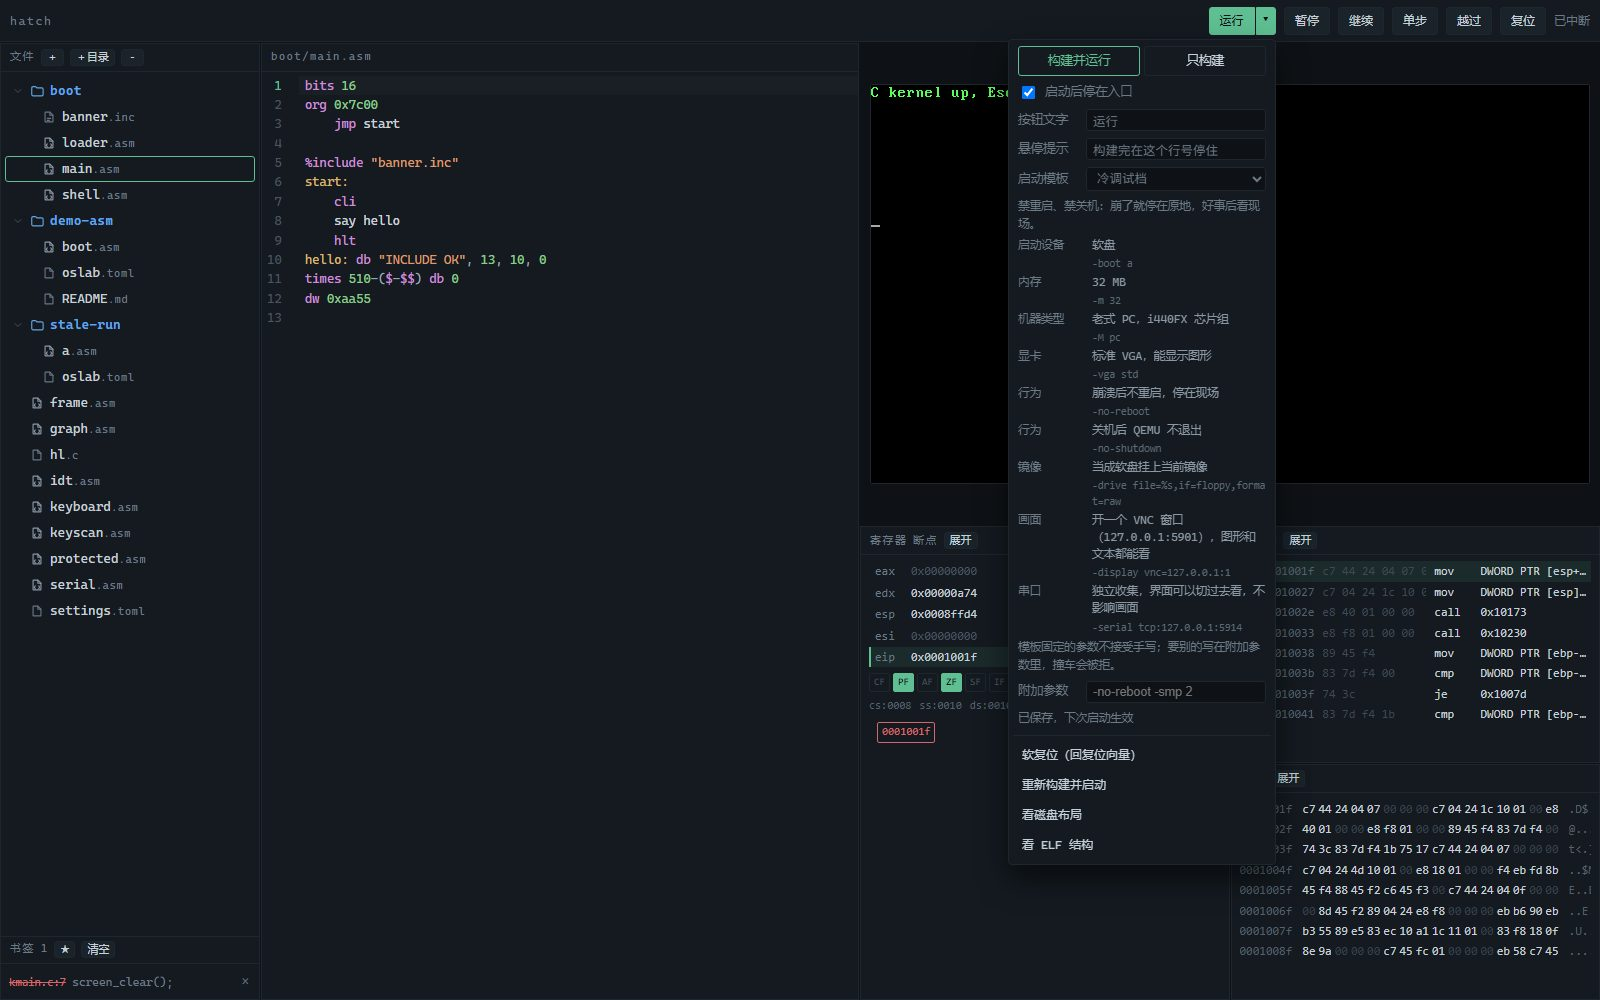
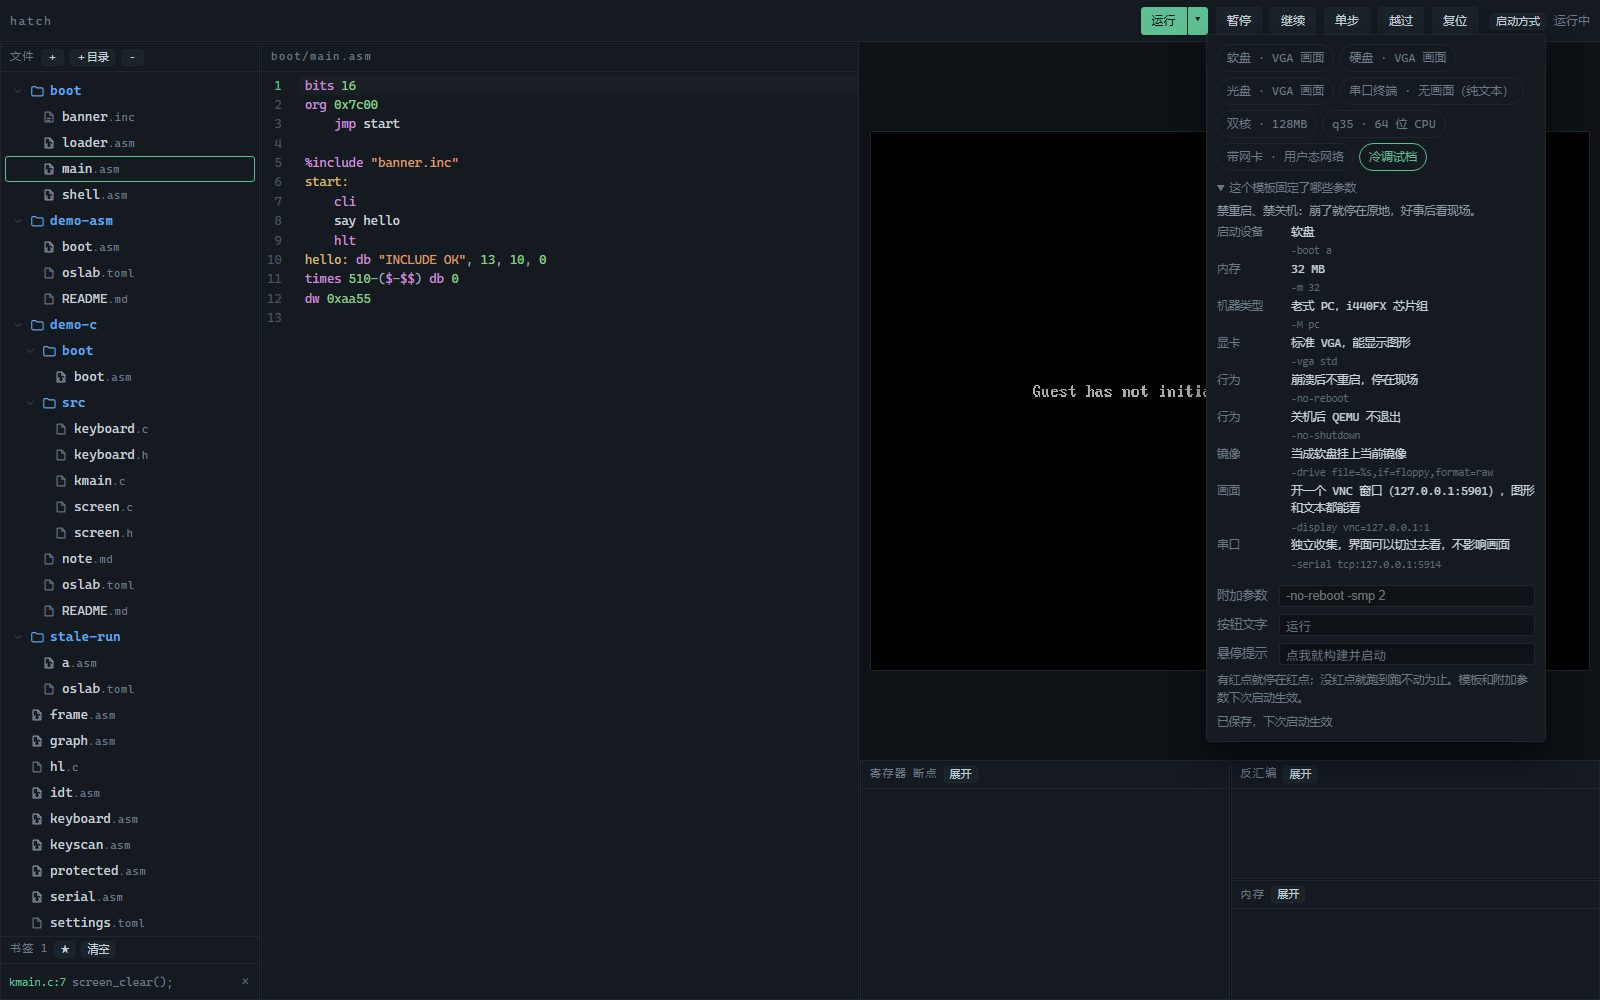
主按钮只管跑，长期设置挪进「启动方式」
▾ 里只剩一次性动作：只构建、软复位、重新构建并启动、看磁盘布局、看 ELF，
四五行，不再被参数表撑满。按住 Shift 点主按钮就是只构建（▾ 末尾也写了）。

新开一个「启动方式」小浮层（齿轮样式按钮）：模板排成 chip 点一下就用，
参数表折叠在「这个模板固定了哪些参数」后面，下面是附加参数、按钮文字、
悬停提示。改哪项当场存，模板和附加参数下次启动生效。

入口暂停不再是个开关：有红点就停在红点，没红点就跑到跑不动为止。顺带修了
我上一版把条件写反的问题——pause_at_entry 为真时其实是「放行到红点」，
结果只要没有红点就停在复位向量，串口一个字都收不到。现在按上面这条走，
pause_at_entry = false 才真的停在复位向量（手改有效，界面不再出现）。

README 的对应章节和截图跟着换。

单测 96 条、端到端 67/67；浏览器实测 Shift 只构建、普通点会跑、
点浮层里不关点页面才关。

diff --git a/src/oslab/assets/ui/js/settings.js b/src/oslab/assets/ui/js/settings.js
@@ -1,9 +1,9 @@
 import * as api from "./api.js";
 import * as panels from "./panels.js";
 
-// 启动方式的全部字段就挂在运行按钮底下那一层，改哪项当场存哪项
+// 按钮只负责跑；长期设置收在「启动方式」那个小浮层里
 const runBtn = document.getElementById("run");
-const menu = document.getElementById("run-menu");
+const box = document.getElementById("run-set");
 const note = document.getElementById("run-note");
 
 const DEFAULTS = {
@@ -20,36 +20,30 @@ export function esc(text) {
 }
 
 export function applyRunButton() {
-  runBtn.textContent = data.run.label || (data.run.action === "build" ? "构建" : "运行");
+  runBtn.textContent = data.run.label || "运行";
   runBtn.title = data.run.hint || "";
 }
 
 function paintFacts() {
-  const box = document.getElementById("run-facts");
+  const wrap = document.getElementById("run-facts-wrap");
   const found = profiles.find((item) => item.id === data.qemu.profile);
   if (!found) {
-    box.innerHTML = "";
+    wrap.hidden = true;
     return;
   }
-  box.innerHTML = `<div class="dim">${esc(found.desc)}</div>`
+  wrap.hidden = false;
+  document.getElementById("run-facts").innerHTML = `${esc(found.desc)}`
     + `<table class="facts-list">${(found.rows || []).map((row) =>
       `<tr><th>${esc(row.k)}</th><td>${esc(row.v)}<code>${esc(row.arg)}</code></td></tr>`)
-      .join("")}</table>`
-    + `<div class="dim">模板固定的参数不接受手写；要别的写在附加参数里，撞车会被拒。</div>`;
+      .join("")}</table>`;
 }
 
-// 浮层每次打开都按当前值重画一遍
 export function paint() {
-  for (const button of document.querySelectorAll("#run-action button")) {
-    button.classList.toggle("on", button.dataset.do === data.run.action);
-  }
-  document.getElementById("run-pause").checked = data.run.pause_at_entry;
+  document.getElementById("run-chips").innerHTML = profiles.map((item) =>
+    `<button type="button" class="chip${item.id === data.qemu.profile ? " on" : ""}"`
+    + ` data-profile="${esc(item.id)}">${esc(item.name)}</button>`).join("");
   document.getElementById("run-label").value = data.run.label;
   document.getElementById("run-hint").value = data.run.hint;
-  const pick = document.getElementById("run-profile");
-  pick.innerHTML = profiles.map((item) =>
-    `<option value="${esc(item.id)}">${esc(item.name)}</option>`).join("");
-  pick.value = data.qemu.profile;
   document.getElementById("run-extra").value = (data.qemu.extra || []).join(" ");
   paintFacts();
 }
@@ -83,10 +77,6 @@ async function put(patch) {
   return true;
 }
 
-export function setAction(action) {
-  return put({ run: { action } });
-}
-
 export async function load() {
   adopt(await api.settings());
   return data;
@@ -96,22 +86,35 @@ export function current() {
   return { ...data, profiles };
 }
 
+export function isOpen() {
+  return box.classList.contains("open");
+}
+
+export function toggle() {
+  if (isOpen()) {
+    box.classList.remove("open");
+    return;
+  }
+  paint();
+  box.classList.add("open");
+}
+
+export function close() {
+  box.classList.remove("open");
+}
+
 export function install() {
-  menu.addEventListener("click", (ev) => ev.stopPropagation());
-  document.getElementById("run-action").addEventListener("click", (ev) => {
-    const button = ev.target.closest("button[data-do]");
-    if (button) setAction(button.dataset.do);
+  box.addEventListener("click", (ev) => ev.stopPropagation());
+  document.getElementById("run-chips").addEventListener("click", async (ev) => {
+    const chip = ev.target.closest("button[data-profile]");
+    if (!chip) return;
+    const profile = chip.dataset.profile;
+    if (await put({ qemu: { profile } })) panels.serialMode(profile === "terminal");
   });
-  document.getElementById("run-pause").addEventListener("change", (ev) =>
-    put({ run: { pause_at_entry: ev.target.checked } }));
   for (const [id, key, max] of [["run-label", "label", 12], ["run-hint", "hint", 80]]) {
     document.getElementById(id).addEventListener("change", (ev) =>
       put({ run: { [key]: ev.target.value.trim().slice(0, max) } }));
   }
-  document.getElementById("run-profile").addEventListener("change", async (ev) => {
-    const profile = ev.target.value;
-    if (await put({ qemu: { profile } })) panels.serialMode(profile === "terminal");
-  });
   document.getElementById("run-extra").addEventListener("change", (ev) =>
     put({ qemu: { extra: ev.target.value.split(/\s+/).filter(Boolean) } }));
   load();

diff --git a/src/oslab/assets/ui/styles/detail.css b/src/oslab/assets/ui/styles/detail.css
@@ -189,28 +189,52 @@
   border: 0;
 }
 #run-menu button:hover { background: var(--edge); }
-#run-menu hr {
-  width: 100%;
-  margin: 4px 0;
-  border: 0;
-  border-top: 1px solid var(--edge);
-}
-#run-knobs { display: flex; flex-direction: column; gap: 7px; padding: 2px 5px 4px; }
-#run-knobs .dim { color: var(--dim); font-size: 11.5px; line-height: 1.5; }
-#run-knobs .seg { display: flex; gap: 4px; }
-#run-knobs .seg button {
-  flex: 1;
-  text-align: center;
-  padding: 5px 6px;
+#run-menu .dim.tight { padding: 5px 9px 3px; }
+#run-menu { min-width: 210px; }
+#set-group { position: relative; }
+#run-set {
+  position: absolute;
+  top: calc(100% + 4px);
+  right: 0;
+  z-index: 80;
+  display: none;
+  flex-direction: column;
+  gap: 7px;
+  width: 340px;
+  padding: 9px 10px 10px;
+  background: var(--panel);
   border: 1px solid var(--edge);
-  border-radius: 3px;
+  border-radius: 4px;
+  box-shadow: 0 14px 30px #0008;
   font-size: 12.5px;
 }
-#run-knobs .seg button.on { border-color: var(--accent); color: var(--accent); }
-#run-knobs .check { display: flex; align-items: center; gap: 7px; font-size: 12.5px; color: var(--dim); }
-#run-knobs .knob { display: grid; grid-template-columns: 62px 1fr; align-items: center; gap: 6px; font-size: 12.5px; color: var(--dim); }
-#run-knobs .knob input,
-#run-knobs .knob select {
+#run-set.open { display: flex; }
+#run-set .dim.tight { color: var(--dim); font-size: 11.5px; line-height: 1.5; }
+#run-chips { display: flex; flex-wrap: wrap; gap: 5px; }
+#run-chips .chip {
+  padding: 4px 9px;
+  font-size: 12px;
+  color: var(--dim);
+  background: transparent;
+  border: 1px solid var(--edge);
+  border-radius: 999px;
+  cursor: pointer;
+}
+#run-chips .chip:hover { border-color: var(--dim); color: inherit; }
+#run-chips .chip.on { border-color: var(--accent); color: var(--accent); }
+#run-facts-wrap summary {
+  cursor: pointer;
+  color: var(--dim);
+  font-size: 11.5px;
+  padding: 2px 0;
+}
+#run-facts { padding: 4px 0 2px; color: #8b98a3; font-size: 11.5px; line-height: 1.5; }
+#run-facts .facts-list { width: 100%; border-collapse: collapse; font-size: 11.5px; margin: 3px 0; }
+#run-facts .facts-list th { text-align: left; color: var(--dim); font-weight: 400; padding: 1px 6px 1px 0; white-space: nowrap; vertical-align: top; }
+#run-facts .facts-list td { padding: 1px 0; }
+#run-facts .facts-list code { display: block; color: #5c6a73; font-size: 10.5px; }
+#run-set .knob { display: grid; grid-template-columns: 56px 1fr; align-items: center; gap: 6px; color: var(--dim); }
+#run-set .knob input {
   width: 100%;
   padding: 3px 6px;
   font-size: 12.5px;
@@ -219,11 +243,6 @@
   border: 1px solid var(--edge);
   border-radius: 3px;
 }
-#run-facts:empty { display: none; }
-#run-facts .facts-list { width: 100%; border-collapse: collapse; font-size: 11.5px; margin: 3px 0; }
-#run-facts .facts-list th { text-align: left; color: var(--dim); font-weight: 400; padding: 1px 6px 1px 0; white-space: nowrap; vertical-align: top; }
-#run-facts .facts-list td { color: #8b98a3; padding: 1px 0; }
-#run-facts .facts-list code { display: block; color: #5c6a73; font-size: 10.5px; }
 #run-note { min-height: 15px; }
 #run-note.bad { color: #e5534b; }
 

diff --git a/src/oslab/assets/ui/index.html b/src/oslab/assets/ui/index.html
@@ -19,26 +19,14 @@
   <span class="title">hatch</span>
   <div id="run-group">
     <button id="run" class="primary">运行</button>
-    <button id="run-more" class="primary" title="更多启动方式">▾</button>
+    <button id="run-more" class="primary" title="更多动作">▾</button>
     <div id="run-menu">
-      <div id="run-knobs">
-        <div class="seg" id="run-action">
-          <button data-do="run" class="on">构建并运行</button>
-          <button data-do="build">只构建</button>
-        </div>
-        <label class="check"><input id="run-pause" type="checkbox" /><span>启动后停在入口</span></label>
-        <label class="knob"><span>按钮文字</span><input id="run-label" maxlength="12" /></label>
-        <label class="knob"><span>悬停提示</span><input id="run-hint" maxlength="80" /></label>
-        <label class="knob"><span>启动模板</span><select id="run-profile"></select></label>
-        <div id="run-facts"></div>
-        <label class="knob"><span>附加参数</span><input id="run-extra" placeholder="-no-reboot -smp 2" /></label>
-        <div id="run-note" class="dim"></div>
-      </div>
-      <hr>
+      <button data-act="build">只构建</button>
       <button data-act="reset">软复位（回复位向量）</button>
       <button data-act="reboot">重新构建并启动</button>
       <button data-act="disk">看磁盘布局</button>
       <button data-act="elf">看 ELF 结构</button>
+      <div class="dim tight">Shift + 点运行也是只构建</div>
     </div>
   </div>
   <button id="pause">暂停</button>
@@ -46,6 +34,20 @@
   <button id="step">单步</button>
   <button id="step-over">越过</button>
   <button id="reset">复位</button>
+  <div id="set-group">
+    <button id="gear" class="mini" title="启动方式">启动方式</button>
+    <div id="run-set">
+      <div class="chips" id="run-chips"></div>
+      <details id="run-facts-wrap"><summary>这个模板固定了哪些参数</summary>
+        <div id="run-facts"></div>
+      </details>
+      <label class="knob"><span>附加参数</span><input id="run-extra" placeholder="-no-reboot -smp 2" /></label>
+      <label class="knob"><span>按钮文字</span><input id="run-label" maxlength="12" /></label>
+      <label class="knob"><span>悬停提示</span><input id="run-hint" maxlength="80" /></label>
+      <div class="dim tight">有红点就停在红点；没红点就跑到跑不动为止。模板和附加参数下次启动生效。</div>
+      <div id="run-note" class="dim tight"></div>
+    </div>
+  </div>
   <span id="status">待机</span>
 </header>
 

diff --git a/src/oslab/assets/ui/js/boot.js b/src/oslab/assets/ui/js/boot.js
@@ -64,7 +64,7 @@ async function runAction(act) {
   document.getElementById("run-menu").classList.remove("open");
   if (act === "disk" || act === "elf") return detail.open(act);
   if (act === "reset") return guarded(api.reset);
-  if (act === "reboot") return boot();
+  if (act === "build") return boot(true);
   return boot();
 }
 
@@ -100,12 +100,17 @@ async function boot(forceBuild) {
   });
 }
 
-document.getElementById("run").addEventListener("click", () => runAction("main"));
+// 主按钮只管跑，Shift 按住就只构建；另一半动作在 ▾ 里
+document.getElementById("run").addEventListener("click", (ev) => boot(ev.shiftKey));
 document.getElementById("run-more").addEventListener("click", (ev) => {
   ev.stopPropagation();
-  const menu = document.getElementById("run-menu");
-  if (!menu.classList.contains("open")) settings.paint();
-  menu.classList.toggle("open");
+  settings.close();
+  document.getElementById("run-menu").classList.toggle("open");
+});
+document.getElementById("gear").addEventListener("click", (ev) => {
+  ev.stopPropagation();
+  document.getElementById("run-menu").classList.remove("open");
+  settings.toggle();
 });
 document.getElementById("run-menu").addEventListener("click", (ev) => {
   const item = ev.target.closest("button[data-act]");
@@ -113,6 +118,7 @@ document.getElementById("run-menu").addEventListener("click", (ev) => {
 });
 document.addEventListener("click", () => {
   document.getElementById("run-menu").classList.remove("open");
+  settings.close();
 });
 for (const button of document.querySelectorAll("[data-open]")) {
   button.addEventListener("click", () => detail.open(button.dataset.open));

diff --git a/src/oslab/services/session.py b/src/oslab/services/session.py
@@ -129,9 +129,9 @@ class Session:
                 self.cursor = 0
                 self.file = name
                 self.arbiter.to(state.RUNNING, "booted")
-                if self.tune["run"]["pause_at_entry"]:
+                # 默认一路放行：有红点就停在第一个红点。pause_at_entry 置 false 才真的停在复位向量
+                if self.tune["run"].get("pause_at_entry", True) or placed:
                     self.backend.cont()
-                    # 入口就有断点时会立刻停下来，等一小会儿再看
                     for _ in range(30):
                         if self.arbiter.state != state.RUNNING:
                             break

diff --git a/README.md b/README.md
@@ -22,11 +22,11 @@ OS 开发最烦的不是写不出那几十行汇编，而是**验证一次要切
 
 ![编辑器与断点、寄存器、反汇编、内存](docs/shot-editor.jpg)
 
-**QEMU 参数不靠背**：显卡、画面、串口、启动设备这些开关固定在各模板里，选中就把每一项连原参数一起列出来，不让人猜「VGA 到底能不能显示图形」。
+**QEMU 参数不靠背**：显卡、画面、串口、启动设备这些开关固定在各模板里，选中就把每一项连原参数一起列出来，不让人猜「VGA 到底能不能显示图形」。同一台机器平时软盘跑，要抓崩溃点一下切冷调试档。
 
-**一套机器预算，开关就在按钮上**：▾ 展开是全部启动开关——只构建还是连跑、停不停在入口、按钮写什么字、用哪个模板、加什么参数。平时软盘跑，抓崩溃就把模板切到冷调试档，全在界面上改，不写进工程。
+![启动方式的模板与它固定的参数](docs/shot-run.jpg)
 
-![运行按钮里的启动开关与模板参数表](docs/shot-run.jpg)
+**按钮只管跑**：点一下构建并启动，按住 Shift 只构建，旁边 ▾ 里是软复位、重新构建、看镜像结构这些一次性动作。机器怎么起这类长期设置收在「启动方式」里，不占日常视线。
 
 **镜像摊开给你看**：构建完按一下，镜像被拆成引导扇区、代码、填充几段，逐段标偏移、大小、头几个字节；引导扇区里的开头指令、OEM 字节、分区表项、`0xAA55` 签名逐条点名，行号对应的机器码落点也标在偏移上。签名不对、分区越界、镜像不是整扇区都会当场告警。
 
@@ -104,9 +104,11 @@ link = "boot/kernel.ld"
 
 ## 启动方式
 
-按钮旁边那个 ▾ 展开就是全部开关，没有第二处配置页：点一下是「构建并运行」还是「只构建」、启动后停不停在入口、按钮上写什么字、鼠标悬停提示什么、用哪个 QEMU 模板、要不要加附加参数。改哪项当场存哪项，按钮长相立刻跟着变，模板和附加参数下次启动生效。
+按钮只做最常用的一件事：构建并启动。按住 Shift 点它是只构建，旁边 ▾ 里是一次性动作（只构建、软复位、重新构建并启动、看磁盘布局、看 ELF 结构），打开就四五行。
 
-模板（软盘 / 硬盘 / 光盘 / 串口终端 / 双核 / q35 / 带网卡 / 冷调试档）各自固定了一组参数，展开时会摆出来给你看；模板管「把机器起对起稳」，模板之外想加的自己写在附加参数里，撞车会被拒并说明原因。
+机器怎么起属于长期设置，收在「启动方式」这个小浮层里：一排模板 chip 点一下就用它，下面能改按钮文字和悬停提示，要加模板以外的参数写在附加参数里。改了当场存，模板和附加参数下次启动生效。
+
+有红点就停在红点，没红点就跑到跑不动为止，不用另外交代。模板各自固定了哪些参数，点开「这个模板固定了哪些参数」逐条看；模板管「把机器起对起稳」，撞车的参数会被拒并说明原因。
 
 这些只存在工作区的 `settings.toml` 里，不塞进工程目录，也不跟工程清单抢：清单只说「这个工程由哪些文件、怎么链接」，一个工程一份。老清单里如果还留着 `[run]` 段，会直接报错点名是哪几项，删掉那段就好。
 
